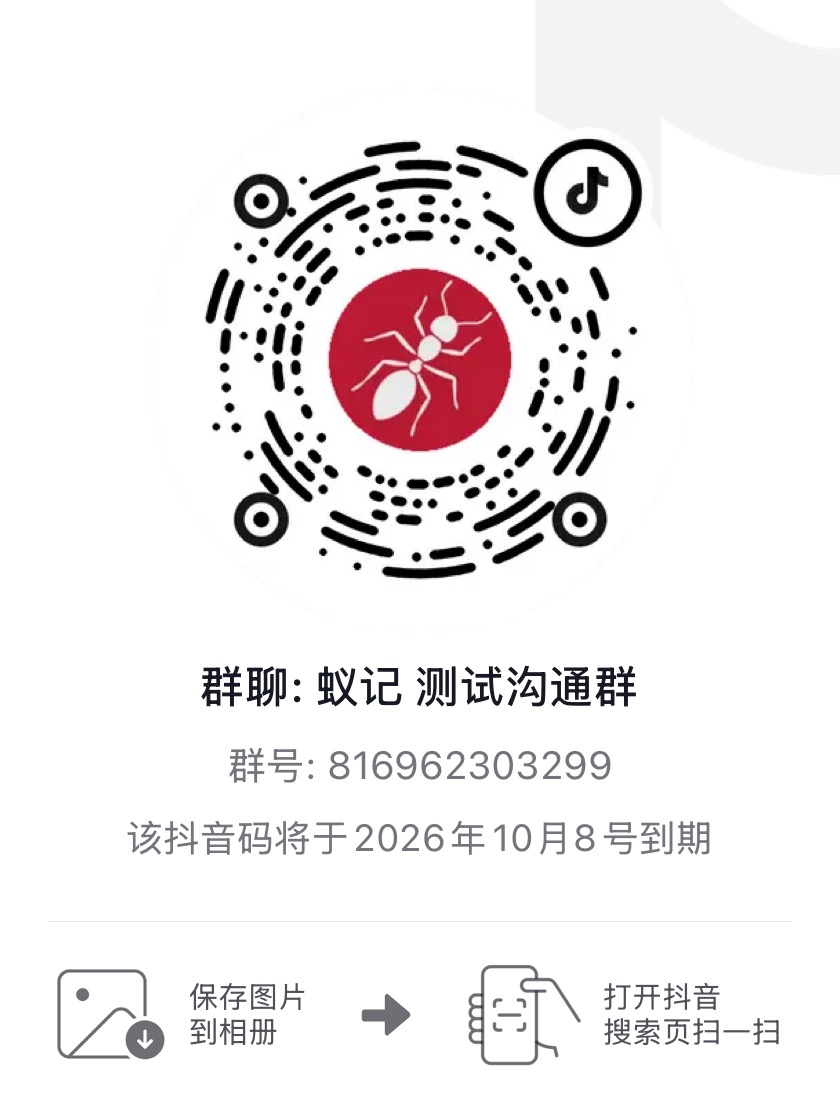
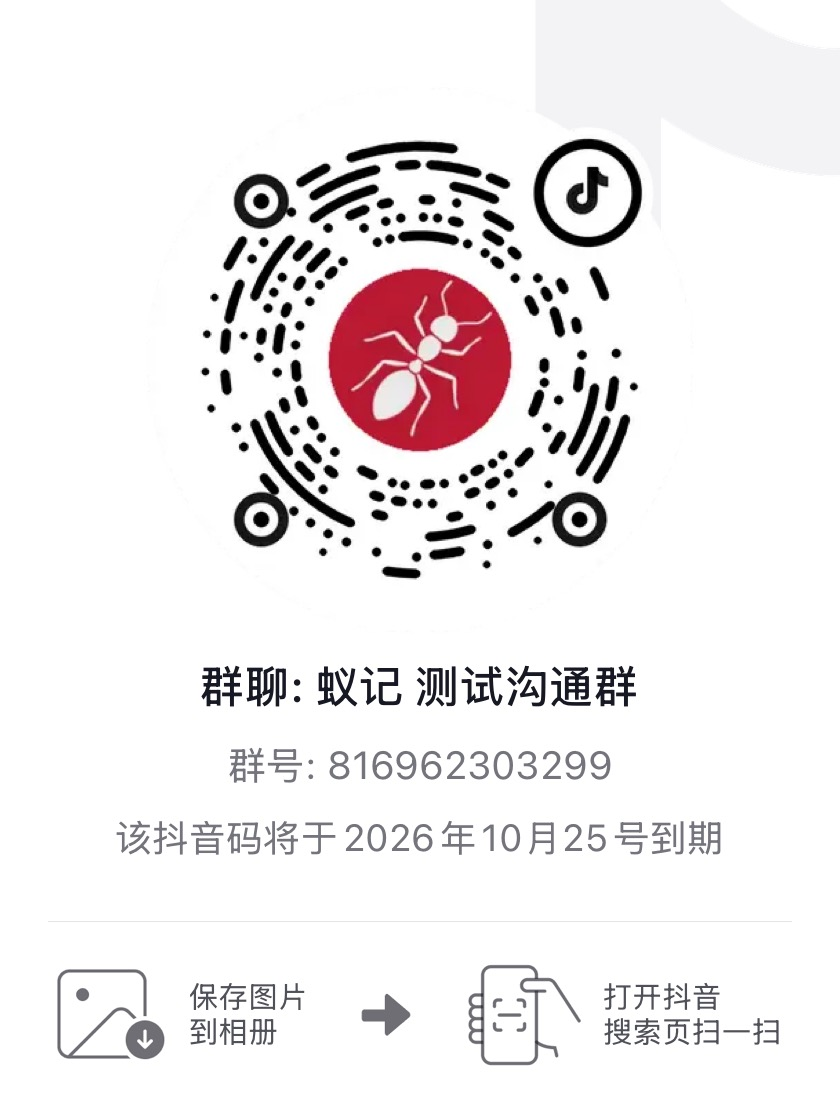
feat: refresh community QR codes and add Douyin contacts

diff --git a/lib/community_groups_page.dart b/lib/community_groups_page.dart
@@ -15,25 +15,45 @@ class CommunityGroupsPage extends StatelessWidget {
             child: Column(
               crossAxisAlignment: CrossAxisAlignment.stretch,
               children: [
-                const Text('欢迎加入交流群，分享养蚁经验、反馈使用问题。'),
+                const Text('欢迎加入交流群，分享养蚁经验、反馈使用问题，也可以通过抖音联系我。'),
                 const SizedBox(height: 8),
                 Text(
-                  '点击图片可放大，截图后在微信或抖音的扫一扫中从相册识别。'
-                  '\n本页二维码标注有效期至 2026 年 10 月 8 日，请在到期前加入。',
+                  '点击图片可放大，截图后在微信或抖音的扫一扫中从相册识别。',
                   style: Theme.of(context).textTheme.bodySmall,
                 ),
                 const SizedBox(height: 16),
-                const _GroupCard(
+                const _QrCodeCard(
                   title: '微信交流群',
                   name: '蚂蚁 app-测试群',
                   asset: 'assets/community/wechat-group.jpg',
+                  hint: '二维码已过期，待更新',
                 ),
                 const SizedBox(height: 16),
-                const _GroupCard(
+                const _QrCodeCard(
                   title: '抖音交流群',
                   name: '蚁记 测试沟通群',
                   asset: 'assets/community/douyin-group.jpg',
-                  groupNumber: '816962303299',
+                  visibleImageSize: Size(840, 920),
+                  accountLabel: '群号：816962303299',
+                  hint: '有效期至 2026 年 10 月 25 日 · 点击放大扫码入群',
+                ),
+                const SizedBox(height: 16),
+                const _QrCodeCard(
+                  title: '蚁记抖音',
+                  name: '蚁记',
+                  asset: 'assets/community/douyin-antkeep.jpg',
+                  visibleImageSize: Size(1125, 1370),
+                  accountLabel: '抖音号：PiPi_Ele',
+                  hint: '点击放大 · 截图后用抖音扫码关注',
+                ),
+                const SizedBox(height: 16),
+                const _QrCodeCard(
+                  title: '联系我（抖音）',
+                  name: '皮皮吃不饱',
+                  asset: 'assets/community/douyin-personal.jpg',
+                  visibleImageSize: Size(1125, 1370),
+                  accountLabel: '抖音号：PiPiELe',
+                  hint: '点击放大 · 截图后用抖音扫码联系',
                 ),
               ],
             ),
@@ -44,18 +64,53 @@ class CommunityGroupsPage extends StatelessWidget {
   );
 }
 
-class _GroupCard extends StatelessWidget {
-  const _GroupCard({
+class _QrCodeCard extends StatelessWidget {
+  const _QrCodeCard({
     required this.title,
     required this.name,
     required this.asset,
-    this.groupNumber,
+    this.accountLabel,
+    this.visibleImageSize,
+    required this.hint,
   });
 
   final String title;
   final String name;
   final String asset;
-  final String? groupNumber;
+  final String? accountLabel;
+  final Size? visibleImageSize;
+  final String hint;
+
+  Widget _image(String semanticLabel) {
+    final size = visibleImageSize;
+    if (size == null) {
+      return Image.asset(
+        asset,
+        fit: BoxFit.contain,
+        semanticLabel: semanticLabel,
+      );
+    }
+    // Hide the original scan-instruction footer without changing QR pixels.
+    return FittedBox(
+      fit: BoxFit.contain,
+      child: SizedBox(
+        width: size.width,
+        height: size.height,
+        child: ClipRect(
+          child: OverflowBox(
+            alignment: Alignment.topCenter,
+            minHeight: 0,
+            maxHeight: double.infinity,
+            child: Image.asset(
+              asset,
+              width: size.width,
+              semanticLabel: semanticLabel,
+            ),
+          ),
+        ),
+      ),
+    );
+  }
 
   @override
   Widget build(BuildContext context) => Card(
@@ -68,7 +123,7 @@ class _GroupCard extends StatelessWidget {
           Text(title, style: Theme.of(context).textTheme.titleMedium),
           const SizedBox(height: 4),
           Text(name),
-          if (groupNumber != null) SelectableText('群号：$groupNumber'),
+          if (accountLabel != null) SelectableText(accountLabel!),
           const SizedBox(height: 12),
           Semantics(
             button: true,
@@ -83,27 +138,19 @@ class _GroupCard extends StatelessWidget {
                         minScale: 1,
                         maxScale: 4,
                         child: SizedBox.expand(
-                          child: Image.asset(
-                            asset,
-                            fit: BoxFit.contain,
-                            semanticLabel: '$title二维码，可双指缩放',
-                          ),
+                          child: _image('$title二维码，可双指缩放'),
                         ),
                       ),
                     ),
                   ),
                 ),
               ),
-              child: Image.asset(
-                asset,
-                fit: BoxFit.contain,
-                semanticLabel: '$title二维码',
-              ),
+              child: _image('$title二维码'),
             ),
           ),
           const SizedBox(height: 8),
           Text(
-            '点击放大 · 截图扫码入群',
+            hint,
             textAlign: TextAlign.center,
             style: Theme.of(context).textTheme.bodySmall,
           ),

diff --git a/lib/main.dart b/lib/main.dart
@@ -8237,7 +8237,7 @@ class _SettingsPageState extends State<SettingsPage> {
         ListTile(
           leading: const Icon(Icons.qr_code_2_outlined),
           title: const Text('交流群二维码'),
-          subtitle: const Text('微信、抖音交流群'),
+          subtitle: const Text('微信、抖音交流群与抖音联系'),
           trailing: const Icon(Icons.chevron_right),
           onTap: () => Navigator.of(context).push(
             MaterialPageRoute(builder: (_) => const CommunityGroupsPage()),

diff --git a/docs/PREPARATION.md b/docs/PREPARATION.md
@@ -153,7 +153,7 @@
 
 ## 在线版、应用更新与账号
 
-- 设置 → 帮助与反馈 → 交流群二维码：内置微信、抖音群原图，离线和简化模式均可查看；支持点击放大、双指缩放及抖音群号选择复制，可截图后在对应应用扫码。当前二维码标注有效期至 2026 年 10 月 8 日，到期后需替换图片资源。
+- 设置 → 帮助与反馈 → 交流群二维码：内置微信、抖音群及「蚁记」「皮皮吃不饱」抖音联系原图，离线和简化模式均可查看；支持点击放大、双指缩放及抖音群号、账号选择复制，可截图后在对应应用扫码。抖音群二维码标注有效期至 2026 年 10 月 25 日，到期后需替换图片资源；微信群旧码标注已过期、待更新。
 
 当前状态：公共资料和 Android 更新策略可通过 `ANTKEEP_API_BASE_URL` 匿名读取；在线版通过同一服务的 `/api/app/` 接口注册、登录、签到及主动推送所选物品。设置中的账号入口与数据推送共用这一套登录会话。未配置或切换离线时不能推送。
 
